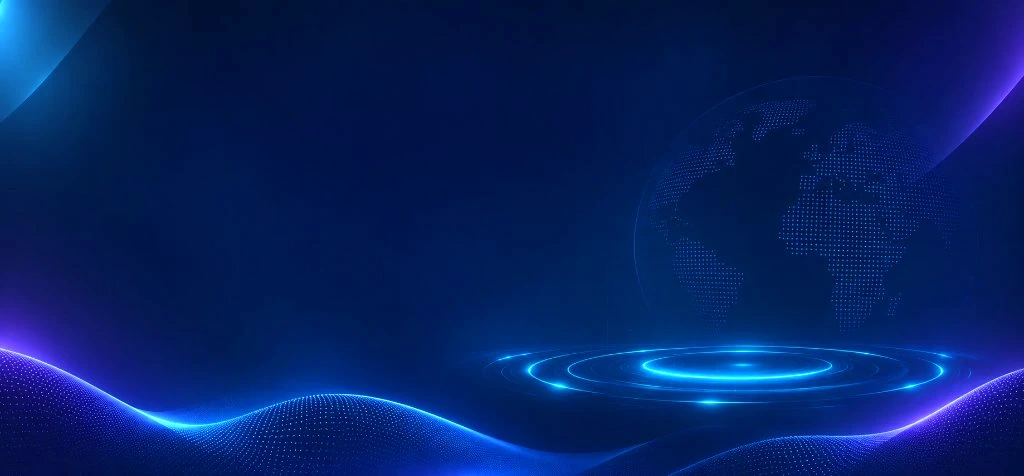
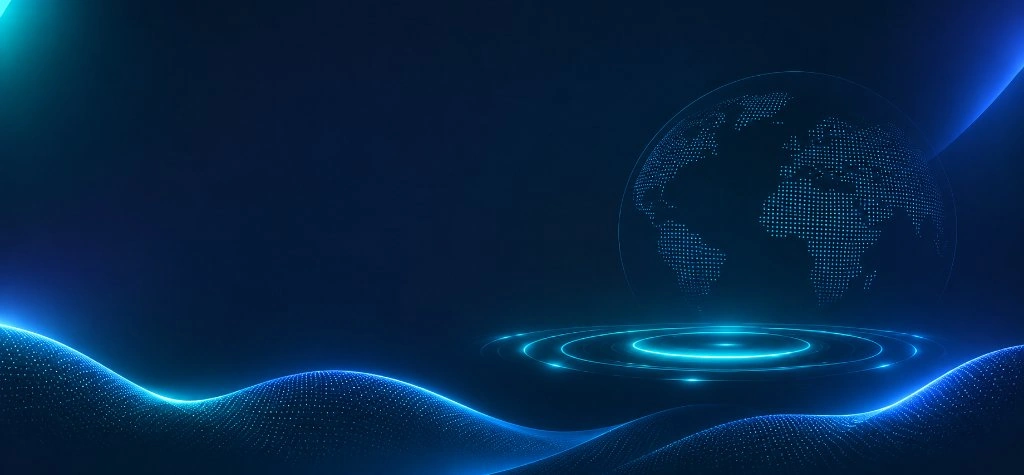
feat(images): standardize hero background image across all inner page folders

diff --git a/src/components/about/AboutHeroSection.tsx b/src/components/about/AboutHeroSection.tsx
@@ -123,7 +123,7 @@ export function AboutHeroSection() {
         aria-hidden="true"
         className="pointer-events-none absolute inset-0 bg-cover bg-bottom bg-no-repeat opacity-95"
         style={{
-          backgroundImage: "url('/images/about/about-hero-bg.webp')",
+          backgroundImage: "url('/images/about/about-hero-bg.webp?v=2')",
         }}
       />
 

diff --git a/src/components/layout/InnerHero.tsx b/src/components/layout/InnerHero.tsx
@@ -273,7 +273,7 @@ export function InnerHero({
         aria-hidden="true"
         className="pointer-events-none absolute inset-0 bg-cover bg-bottom bg-no-repeat opacity-95 transition-opacity duration-700"
         style={{
-          backgroundImage: `url('${activeBg}')`,
+          backgroundImage: `url('${activeBg}?v=2')`,
         }}
       />
 
